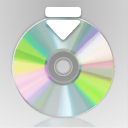
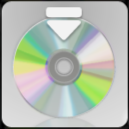
i should check what i copy paste

diff --git a/docs/themecreation/index.md b/docs/themecreation/index.md
@@ -247,7 +247,7 @@ If you want to create your own themes, you will find tutorials here for the type
         
         ![Image title](misc/imgs/menuicons/AppIconDisc.png)
 
-        `Men2.pack` > `Model` > `SystemAppIcon.szs` > `Textures` > `AppIconWii`
+        `Men2.pack` > `Model` > `SystemAppIcon.szs` > `Textures` > `AppIconDisc`
 
         [Menu Icons](misc/menuicons.md){ .md-button }
 
